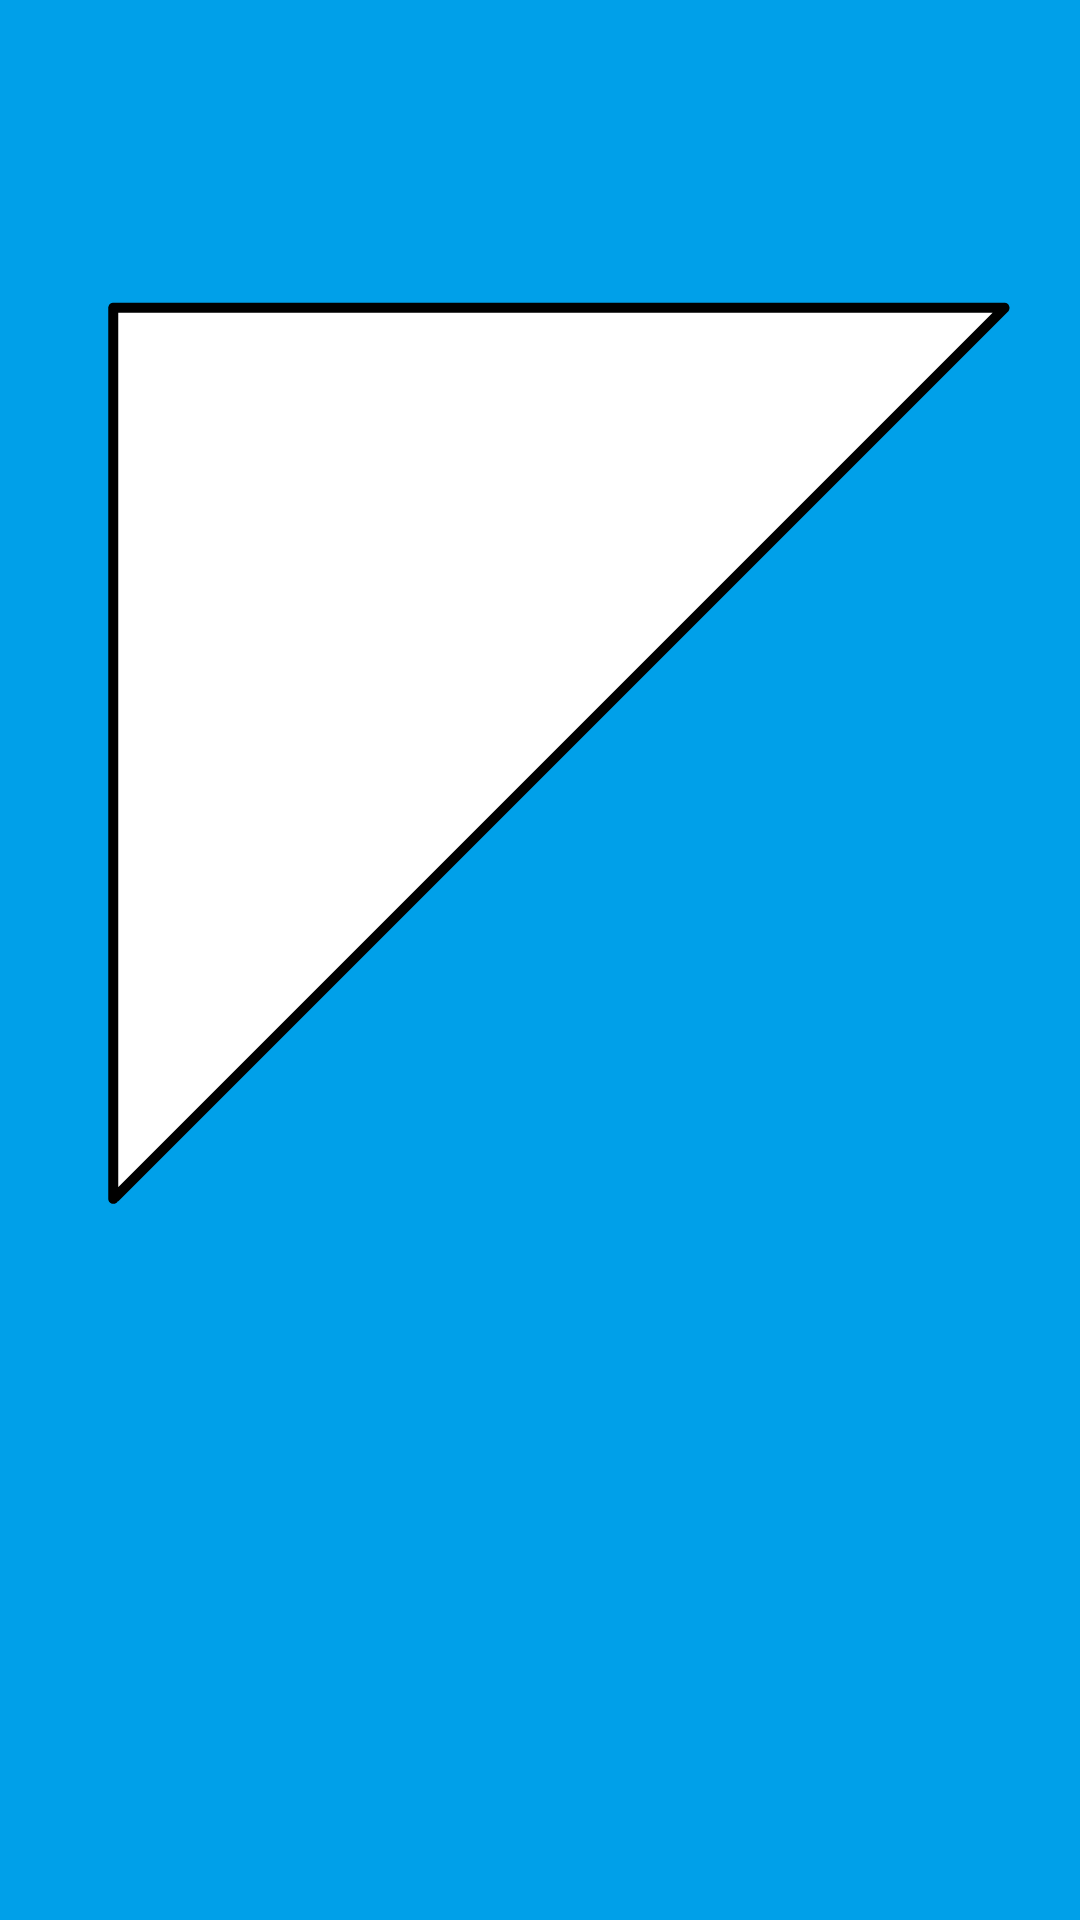
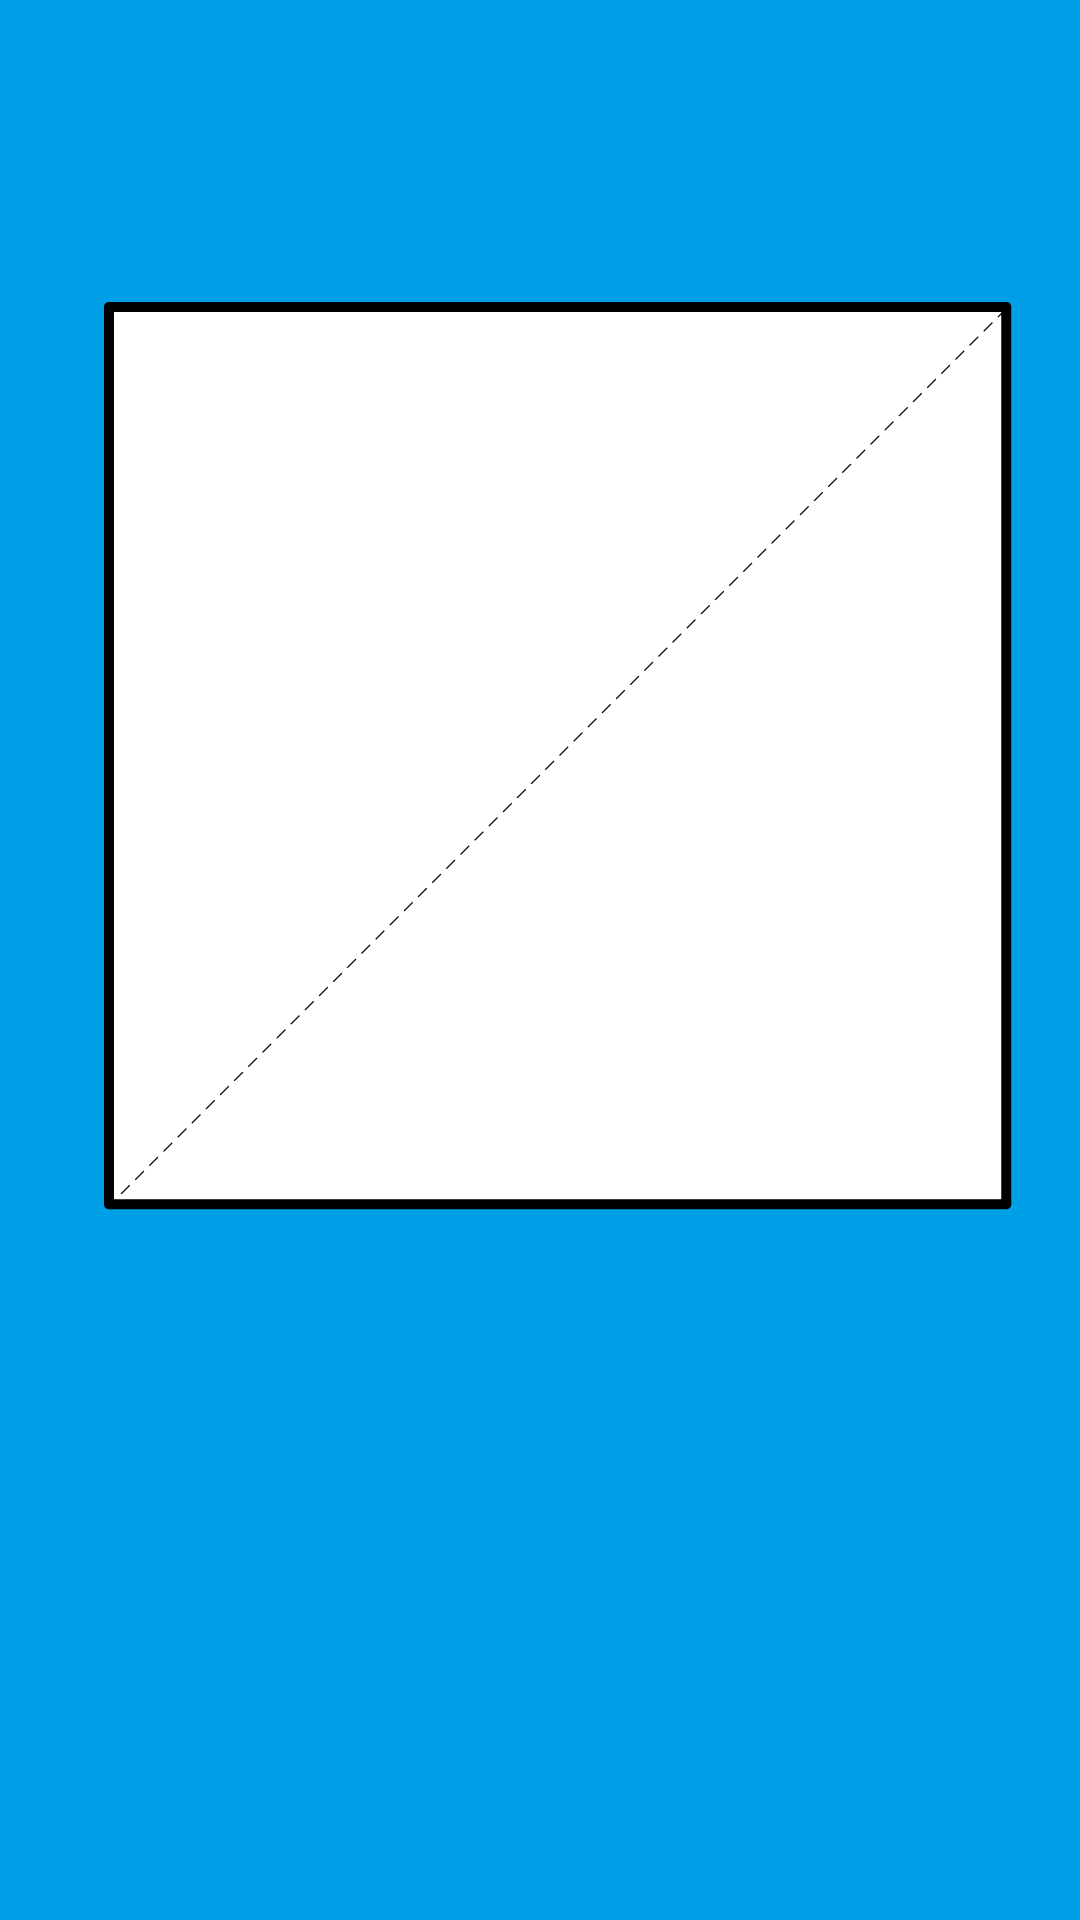
update

Changed region(s): [[0.0917, 0.1562, 0.9472, 0.6562]]

diff --git a/js/main.js b/js/main.js
@@ -5,6 +5,7 @@ var dh;
 var x;
 var canvas;
 var ctx;
+var touching = false;
 var touch_x=0;
 var touch_y=0;
 //------
@@ -18,14 +19,15 @@ var ball=new Array(ball_num);
 var oriduru_count=0;
 var img_back;
 var img_fore;
+var oriduru;
+var timer;
 //------------------------------------------------------------------------------
 function load(){
-    //document.body.addEventListener('touchmove', function(e){e.preventDefault();});
[1 lines of base64/hex data omitted]
-    
     /*
-    var TestClass = ncmb.DataStore("TestClass");
[1 lines of base64/hex data omitted]
+     
     // データストアへの登録
+    var TestClass = ncmb.DataStore("TestClass");
     var testClass = new TestClass();
     testClass.set("message", "Hello, NCMB!");
     testClass.save()
@@ -56,17 +58,20 @@ function load(){
     
     
     
-    
 	canvas = document.getElementById("canvas");
 	ctx = canvas.getContext("2d");
+    timer=new Date();
 	x=0;
-	var t=new Date();
     img_back = new Image();
-    img_back.src="resources/back01.png?"+t.getTime();
+    img_back.src="resources/back01.png?"+timer.getTime();
     img_fore = new Image();
-    img_fore.src="resources/fore01.png?"+t.getTime();
+    img_fore.src="resources/fore01.png?"+timer.getTime();
     
-    circle_timer=t.getTime();
+    
+    oriduru = new Oriduru();
+    
+    
+    circle_timer=timer.getTime();
 	circle[0]=new Array(10,10,5,255,0,0,255,0,0);
 	circle[1]=new Array(10,10,5,200,0,0,255,0,0);
 	circle[2]=new Array(10,10,5,150,0,0,255,0,0);
@@ -98,6 +103,8 @@ function loop() {
 //------------------------------------------------------------------------------
 function move(){
 	//----
+    oriduru.move();
+    
 	for(var i=0;i<circle_num;i++){
 		if(i!=circle_stop){
 			circle[i][0]+=circle[i][7];
@@ -179,7 +186,8 @@ function draw() {
     //----
     ctx.globalCompositeOperation="source-over";
     drawImage(img_back, 0, 0, 1080, 1920);
-    drawImage(img_fore, 0, 0, 1080, 1920);
+    
+    oriduru.draw();
     
     setFontSize(32);
     ctx.fillStyle ='rgb(255,255,255)';
@@ -188,6 +196,12 @@ function draw() {
 	var t=new Date();
 	ctx.fillText("timer   : "+t.getTime(),50,100+30*2);
     ctx.fillText("count   : "+oriduru_count,50,100+30*4);
+}
+//------------------------------------------------------------------------------
+function creatImage(file_name){
+    var img = new Image();
+    img.src = "resources/" + file_name + ".png?" + timer.getTime();
+    return img;
 }
 //------------------------------------------------------------------------------
 function setFontSize(size){
@@ -225,26 +239,56 @@ function drawCircle(x,y,r,red,green,blue,alpha){
 if(window.TouchEvent){
     if(document.addEventListener){
         // タッチを開始すると実行されるイベント
-        document.addEventListener("touchstart",TouchEventFunc);
+        document.addEventListener("touchstart",TouchStart);
         // タッチしたまま平行移動すると実行されるイベント
-        document.addEventListener("touchmove",TouchEventFunc);
+        document.addEventListener("touchmove",TouchMove);
         // タッチを終了すると実行されるイベント
-        document.addEventListener("touchend",TouchEventFunc);
+        document.addEventListener("touchend",TouchEnd);
     }
 }
 //------------------------------------------------------------------------------
-//タッチイベントを設定
-function TouchEventFunc(e){
+function TouchStart(e){
     // TouchList オブジェクトを取得
     var touch_list = e.changedTouches;
     var num = touch_list.length;
     for(var i=0;i < num;i++){
         var touch = touch_list[i];// Touch オブジェクトを取得
-        console.log(touch);// 出力テスト
+        //console.log(touch);// 出力テスト
     }
     touch_x = touch_list[0].pageX/dw;
     touch_y = touch_list[0].pageY/dh;
+    touching = true;
     
+    if(touch_x>50 && touch_x<1080-50){
+        e.preventDefault();
+    }else{
+        
+    }
+}
+//------------------------------------------------------------------------------
+function TouchMove(e){
+    // TouchList オブジェクトを取得
+    var touch_list = e.changedTouches;
+    var num = touch_list.length;
+    for(var i=0;i < num;i++){
+        var touch = touch_list[i];// Touch オブジェクトを取得
+        //console.log(touch);// 出力テスト
+    }
+    touch_x = touch_list[0].pageX/dw;
+    touch_y = touch_list[0].pageY/dh;
+}
+//------------------------------------------------------------------------------
+function TouchEnd(e){
+    // TouchList オブジェクトを取得
+    var touch_list = e.changedTouches;
+    var num = touch_list.length;
+    for(var i=0;i < num;i++){
+        var touch = touch_list[i];// Touch オブジェクトを取得
+        //console.log(touch);// 出力テスト
+    }
+    touch_x = touch_list[0].pageX/dw;
+    touch_y = touch_list[0].pageY/dh;
+    touching = false;
 }
 //------------------------------------------------------------------------------
 document.onmousemove = function (e){

diff --git a/js/Oriduru.js b/js/Oriduru.js
@@ -1,0 +1,61 @@
+class Oriduru {
+    constructor() {
+        this.img = creatImage("fore01");
+        this.next_img = creatImage("fore01");
+        this.x1 = 0;
+        this.y1 = 0;
+        this.x2 = 0;
+        this.y2 = 0;
+        this.num=0;
+        this.touch_start = false;
+        this.fold();
+    }
+    
+    fold(){
+        touching=false;
+        this.touch_start = false;
+        this.num++;
+        if(this.num==1){
+            this.img = this.next_img;
+            this.next_img = creatImage("fore02");
+            this.x1 = 1000;
+            this.y1 = 1200;
+            this.x2 = 100;
+            this.y2 = 300;
+        }
+        else if(this.num==2){
+            this.img = this.next_img;
+            this.next_img = creatImage("fore03");
+            this.x1 = 100;
+            this.y1 = 1200;
+            this.x2 = 1000;
+            this.y2 = 300;
+        }
+        else if(this.num==3){
+            this.img = this.next_img;
+            this.next_img = creatImage("fore04");
+            this.x1 = 800;
+            this.y1 = 800;
+            this.x2 = 500;
+            this.y2 = 500;
+        }
+    }
+    
+    move(){
+        if(touching){
+            if(!this.touch_start && Math.sqrt(Math.pow(touch_x-this.x1,2) + Math.pow(touch_y-this.y1,2)) < 200){
+                this.touch_start = true;
+                console.log("touch!!!!!");
+            }
+            if(this.touch_start && Math.sqrt(Math.pow(touch_x-this.x2,2) + Math.pow(touch_y-this.y2,2)) < 200){
+                this.fold();
+            }
+        }else{
+            this.touch_start = false;
+        }
+    }
+    
+    draw(){
+        drawImage(this.img, 0, 0, 1080, 1920);
+    }
+}

diff --git a/index.html b/index.html
@@ -13,7 +13,8 @@
 			}
 		</style>
         <script type="text/javascript" src="js/ncmb.min.js" charset="utf-8"></script>
-		<script type="text/javascript" src="js/what.js"></script>
+        <script type="text/javascript" src="js/Oriduru.js"></script>
+		<script type="text/javascript" src="js/main.js"></script>
 	</head>
 	<body onLoad="load()">
 		<div id="wrapper">
